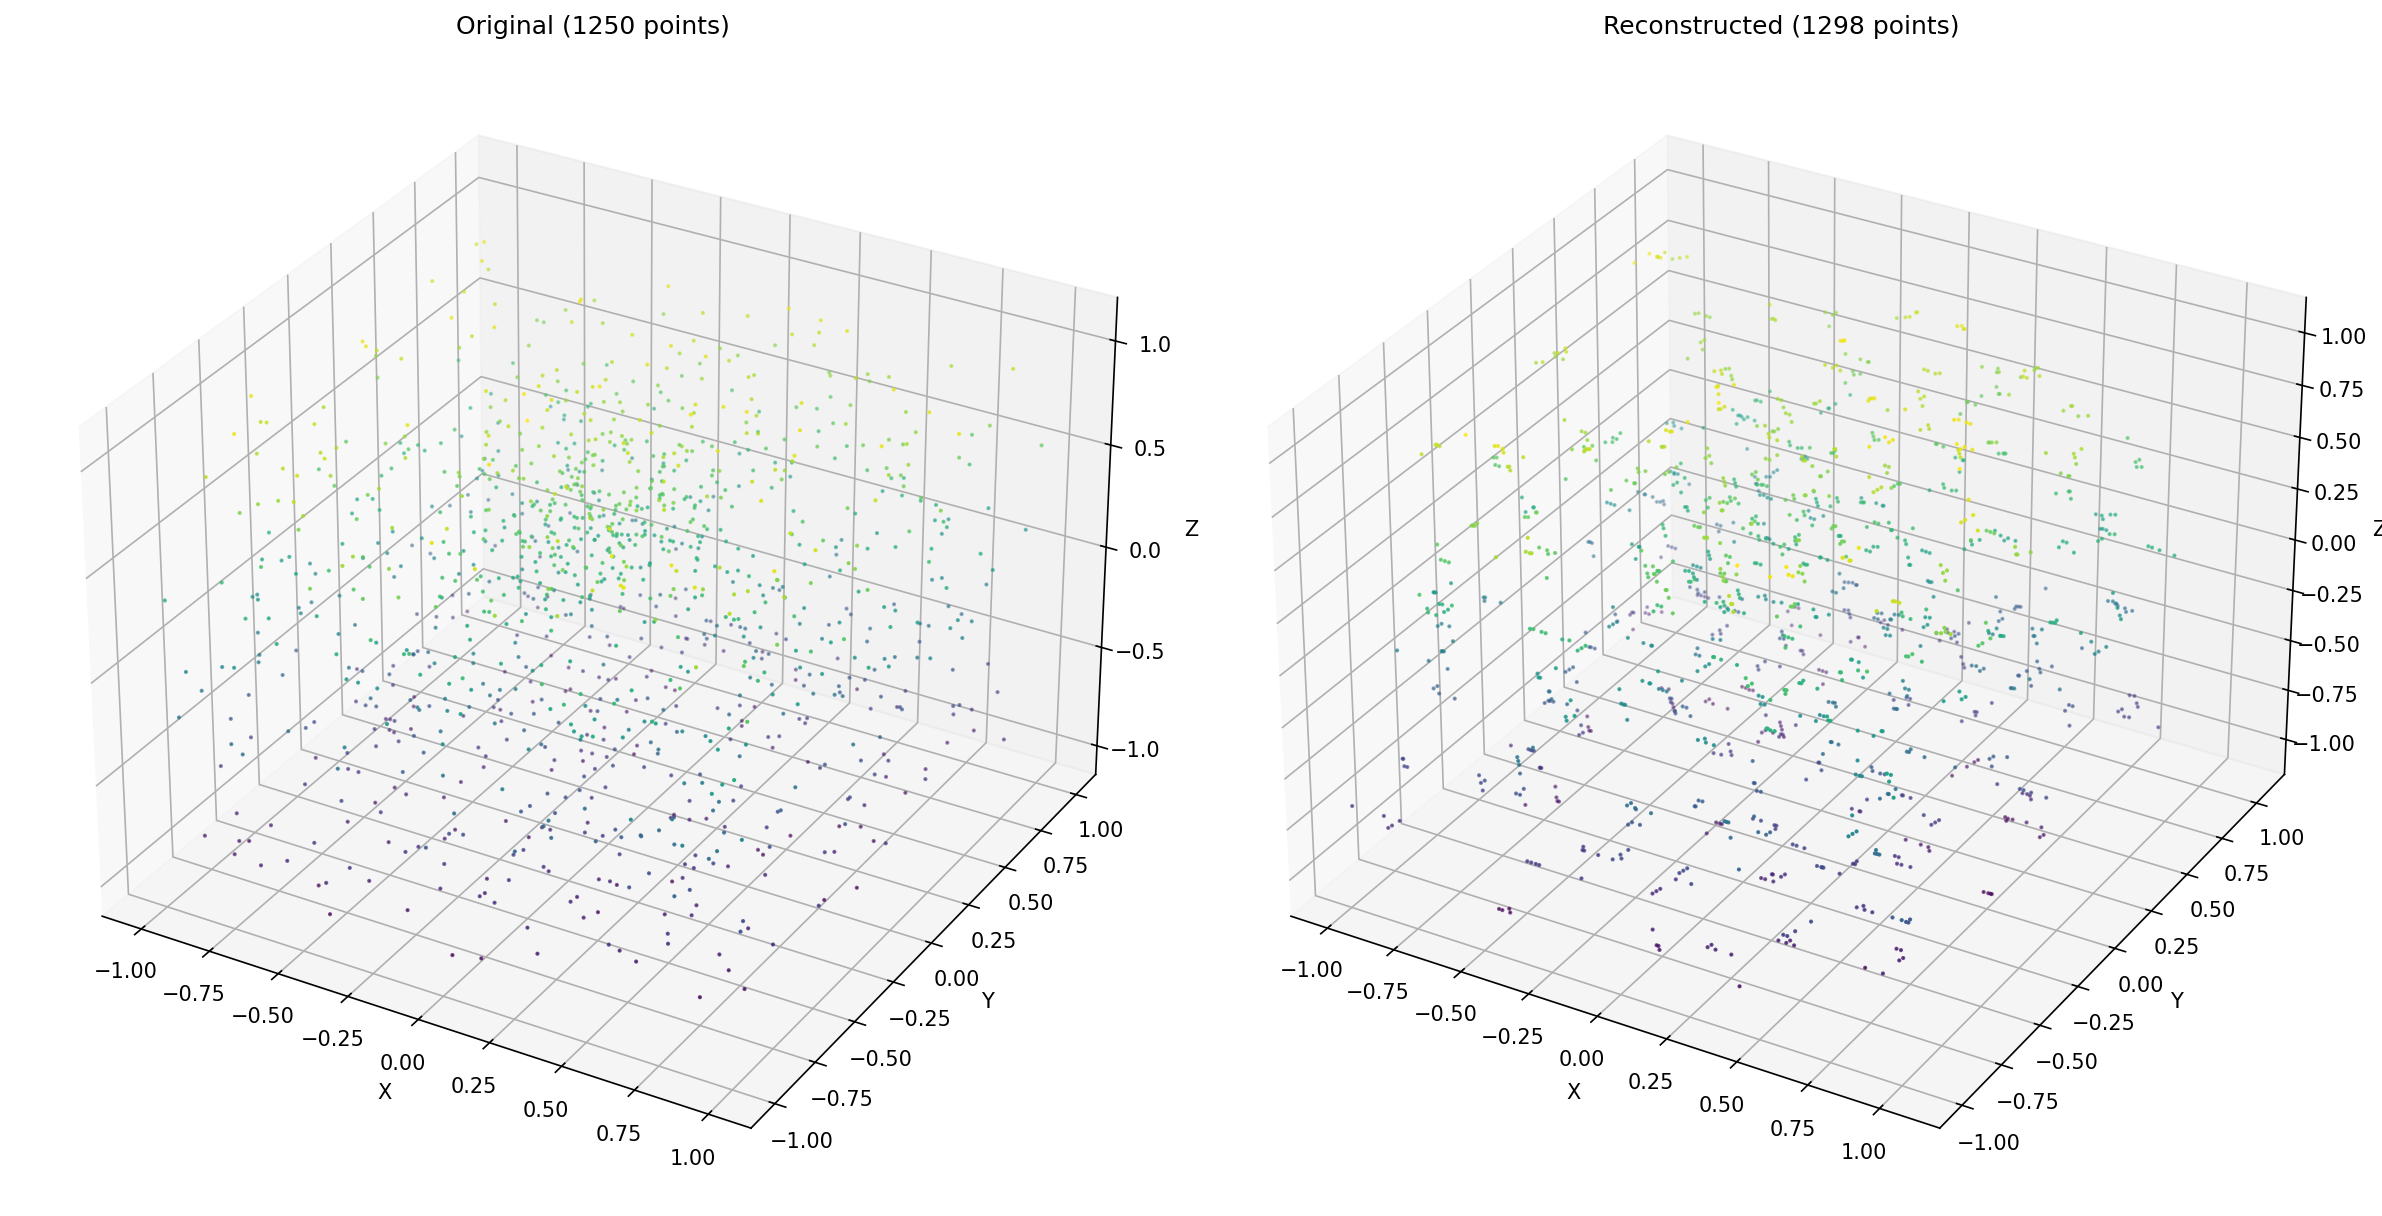
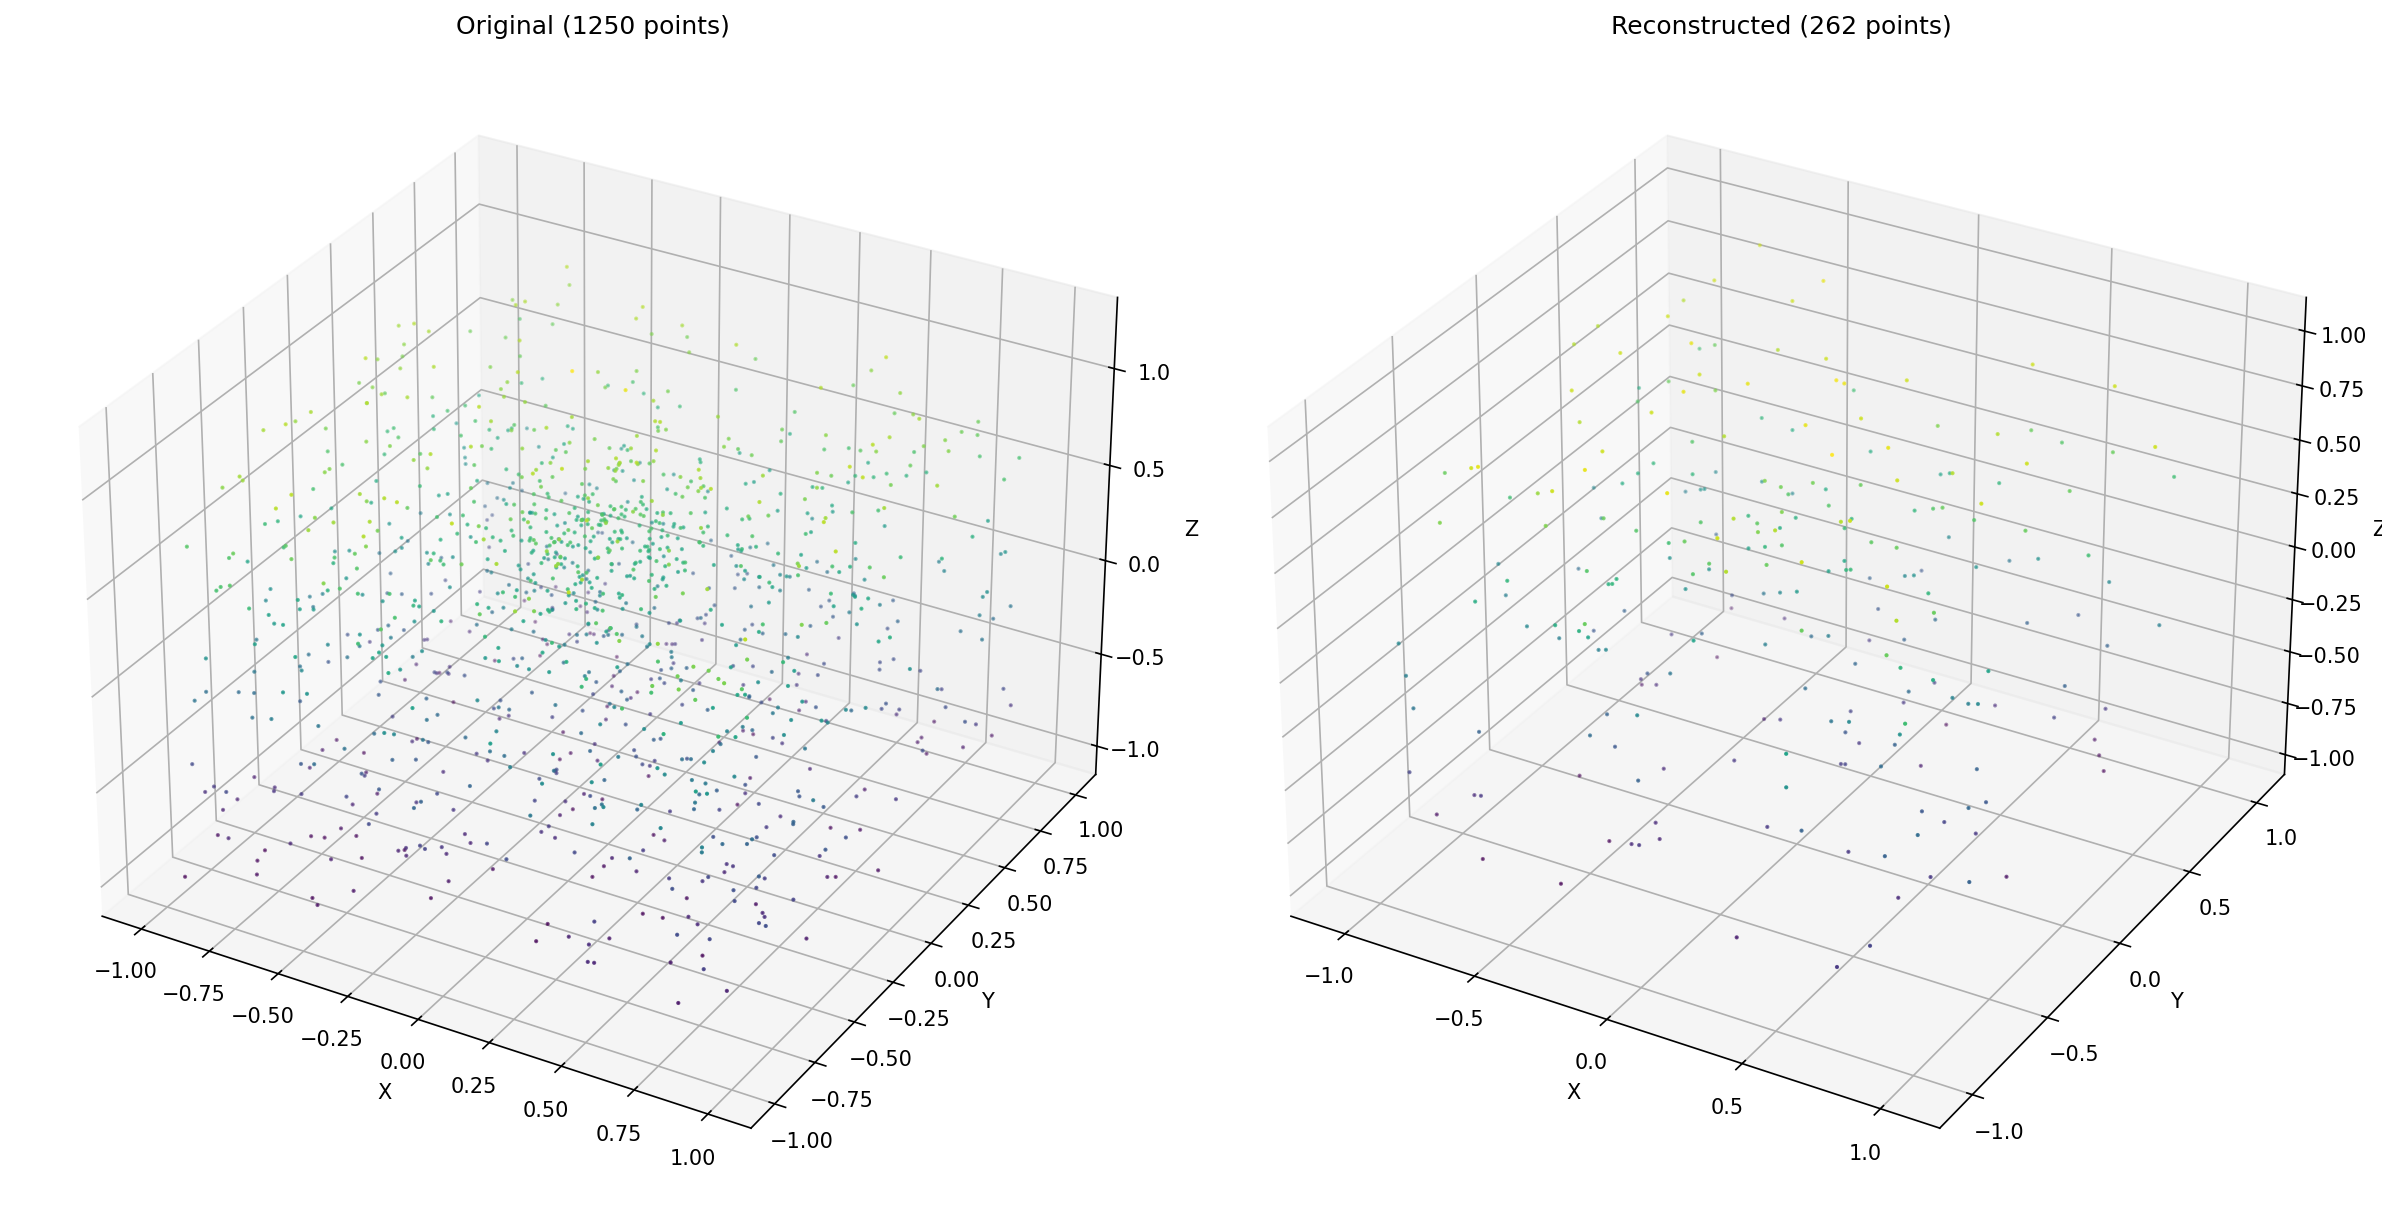
Address code review feedback: fix octree redistribution and use shared priority mapping

diff --git a/train.py b/train.py
@@ -97,18 +97,13 @@ def train_epoch(
         points = batch['points'].to(device)
         labels = batch['labels'].to(device)
         
-        # Compute priorities from labels
-        priorities = torch.ones_like(labels, dtype=torch.float32)
-        for i, label in enumerate(labels[0]):
-            # Simple priority mapping (can be improved)
-            if label == 1:  # car
-                priorities[0, i] = 1.0
-            elif label == 6:  # person
-                priorities[0, i] = 1.0
-            elif label in [9, 10, 11]:  # road, parking, sidewalk
-                priorities[0, i] = 0.4
-            else:
-                priorities[0, i] = 0.5
+        # Compute priorities from labels using the preprocessing module
+        from sc_pcgc.data.preprocessing import compute_semantic_priorities
+        priorities = torch.zeros_like(labels, dtype=torch.float32)
+        for b in range(labels.shape[0]):
+            labels_np = labels[b].cpu().numpy()
+            priorities_np = compute_semantic_priorities(labels_np)
+            priorities[b] = torch.from_numpy(priorities_np).to(device)
         
         optimizer.zero_grad()
         
@@ -166,7 +161,13 @@ def validate(model, dataloader, device, epoch, writer):
             points = batch['points'].to(device)
             labels = batch['labels'].to(device)
             
-            priorities = torch.ones_like(labels, dtype=torch.float32) * 0.5
+            # Compute priorities from labels using the preprocessing module
+            from sc_pcgc.data.preprocessing import compute_semantic_priorities
+            priorities = torch.zeros_like(labels, dtype=torch.float32)
+            for b in range(labels.shape[0]):
+                labels_np = labels[b].cpu().numpy()
+                priorities_np = compute_semantic_priorities(labels_np)
+                priorities[b] = torch.from_numpy(priorities_np).to(device)
             
             # Forward pass
             reconstructed, encoded = model(points, priorities)

diff --git a/sc_pcgc/models/octree.py b/sc_pcgc/models/octree.py
@@ -140,6 +140,8 @@ class Octree:
         self.min_points = min_points
         self.root: Optional[OctreeNode] = None
         self.nodes: List[OctreeNode] = []
+        self.points: Optional[np.ndarray] = None
+        self.priorities: Optional[np.ndarray] = None
     
     def build(
         self,
@@ -155,6 +157,10 @@ class Octree:
         if len(points) == 0:
             return
         
+        # Store points for later reference
+        self.points = points
+        self.priorities = priorities if priorities is not None else np.ones(len(points))
+        
         # Compute bounding box
         min_bound = np.min(points, axis=0)
         max_bound = np.max(points, axis=0)
@@ -167,7 +173,7 @@ class Octree:
         
         # Insert points
         for i, point in enumerate(points):
-            priority = priorities[i] if priorities is not None else 1.0
+            priority = self.priorities[i]
             self._insert_point(self.root, point, i, priority)
     
     def _insert_point(
@@ -201,10 +207,13 @@ class Octree:
             node.points = []
             
             for idx in points_to_redistribute:
-                octant = node.get_octant(point)
+                # Get the actual point coordinates for this index
+                point_coords = self.points[idx]
+                point_priority = self.priorities[idx]
+                octant = node.get_octant(point_coords)
                 child = node.children[octant]
                 if child is not None:
-                    self._insert_point(child, point, idx, priority)
+                    self._insert_point(child, point_coords, idx, point_priority)
                     if child not in self.nodes:
                         self.nodes.append(child)
         

diff --git a/sc_pcgc/models/oct_attention.py b/sc_pcgc/models/oct_attention.py
@@ -75,13 +75,17 @@ class PositionalEncoding3D(nn.Module):
         positions_flat = positions.reshape(batch_size, num_nodes, 3)
         
         # Apply sinusoidal encoding
-        for dim_idx in range(self.d_model // 2):
+        # Ensure we don't exceed frequency buffer or model dimension
+        num_freq = min(self.d_model // 2, len(self.freq))
+        for dim_idx in range(num_freq):
             freq = self.freq[dim_idx]
             for coord_idx in range(3):
                 pos_coord = positions_flat[:, :, coord_idx]
                 angles = pos_coord * freq
-                pos_enc[:, :, dim_idx * 2] += torch.sin(angles) / 3.0
-                pos_enc[:, :, dim_idx * 2 + 1] += torch.cos(angles) / 3.0
+                # Ensure we don't exceed model dimension
+                if dim_idx * 2 + 1 < self.d_model:
+                    pos_enc[:, :, dim_idx * 2] += torch.sin(angles) / 3.0
+                    pos_enc[:, :, dim_idx * 2 + 1] += torch.cos(angles) / 3.0
         
         # Combine encodings
         encoding = depth_enc + pos_enc
